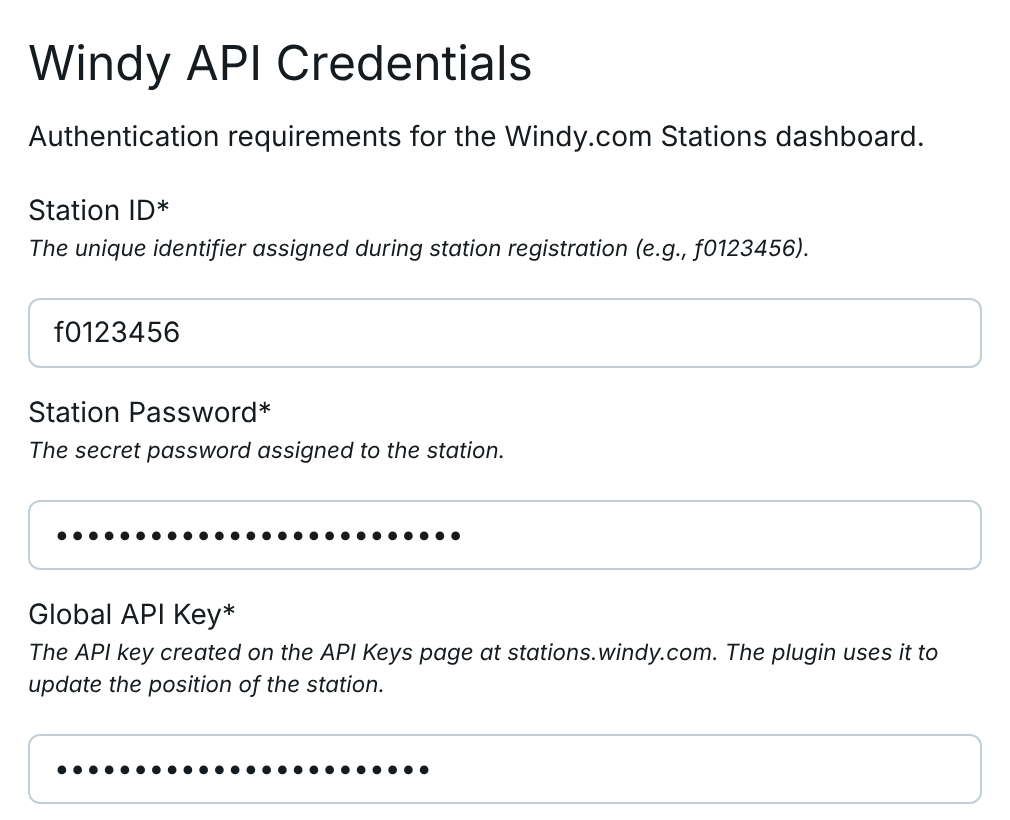
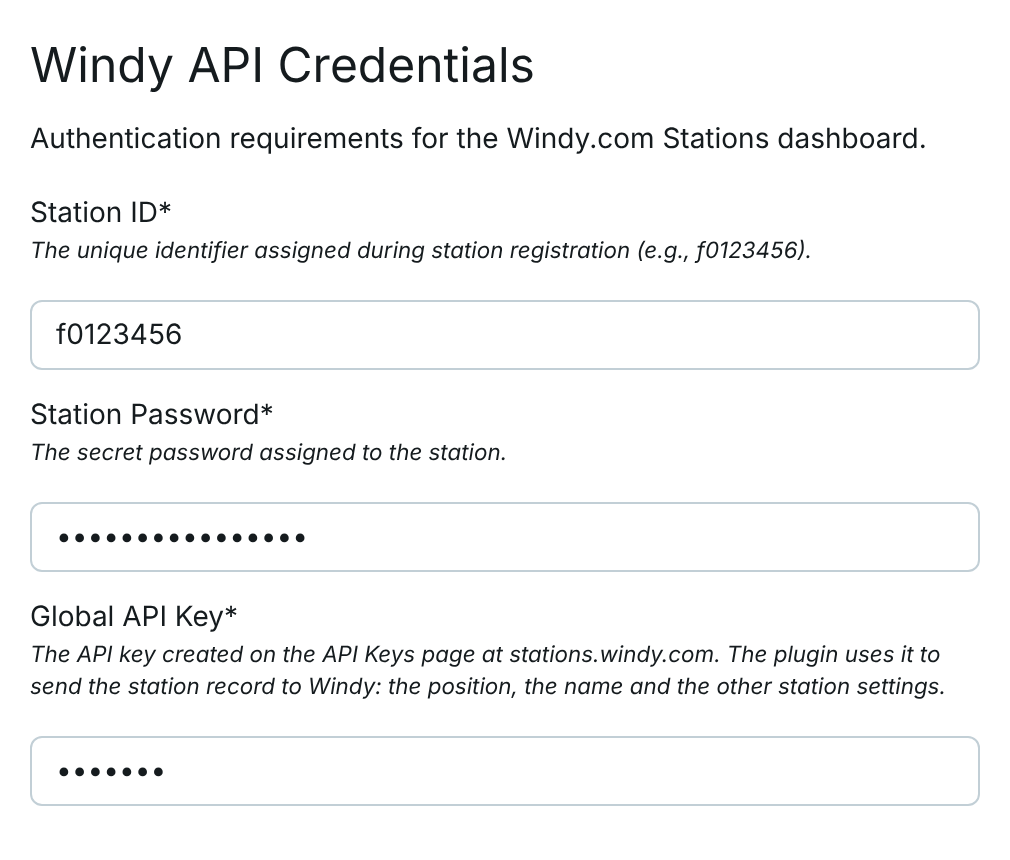
release: v1.10.3 - Wind Gust path unused with WMO, help texts

diff --git a/lib/schema.js b/lib/schema.js
@@ -3,11 +3,11 @@
  *
  * The form is described twice on purpose. `schema` and `uiSchema` tell the
  * Signal K admin UI what to draw; `formSchema()` adds to `schema` what the
- * running plugin receives, each time the configuration page is opened. `resolveOptions()` turns whatever was saved
- * into the values the plugin works with, and applies the same defaults again
- * in code: a configuration written by hand, by an older version, or by a
- * test harness can lack any field, and the form's defaults exist only in the
- * browser.
+ * running plugin receives, each time the configuration page is opened.
+ * `resolveOptions()` turns whatever was saved into the values the plugin
+ * works with, and applies the same defaults again in code: a configuration
+ * written by hand, by an older version, or by a test harness can lack any
+ * field, and the form's defaults exist only in the browser.
  *
  * SPDX-License-Identifier: GPL-3.0-or-later
  */
@@ -89,7 +89,7 @@ const schema = {
         apiKey: {
           type: 'string',
           title: 'Global API Key',
-          description: 'The API key created on the API Keys page at stations.windy.com. The plugin uses it to update the position of the station.'
+          description: 'The API key created on the API Keys page at stations.windy.com. The plugin uses it to send the station record to Windy: the position, the name and the other station settings.'
         }
       }
     },
@@ -163,7 +163,7 @@ const schema = {
           default: DEFAULTS.interval,
           minimum: MIN_INTERVAL_MINUTES,
           maximum: MAX_INTERVAL_MINUTES,
-          description: 'A whole number of minutes, from 5 to 1440. Windy enforces a rate limit of one observation per 5 minutes per station. The wind speed and direction sent are averaged over this interval, and the gust is its highest wind speed (see Gust Calculation).'
+          description: 'A whole number of minutes, from 5 to 1440. Windy enforces a rate limit of one observation per 5 minutes per station. The wind speed and direction sent are averaged over this interval, and the gust is found in it as Gust Calculation sets.'
         },
         gustMethod: {
           type: 'string',
@@ -171,7 +171,7 @@ const schema = {
           default: 'peak',
           enum: [...GUST_METHODS],
           enumNames: ['Highest value in the interval', 'WMO: highest 3-second mean in the interval'],
-          description: 'Highest value: the highest value of the Wind Gust path or of the wind speed in the reporting interval. WMO: the highest mean of the wind speed over any 3 seconds of the interval, as the World Meteorological Organization defines the gust; the Wind Gust path is not used and the wind speed is subscribed up to four times a second (a sensor that updates less often still gives fewer values). With a Reporting Interval of 10 minutes the wind and gust follow the WMO definitions. No height correction is applied.'
+          description: 'Highest value: the highest value of the Wind Gust path or of the wind speed in the reporting interval. WMO: the highest mean of the wind speed over any 3 seconds of the interval, as the World Meteorological Organization defines the gust; the Wind Gust path is not used and the wind speed is subscribed up to four times a second (a sensor that updates less often still gives fewer values). With a Reporting Interval of 10 minutes the wind and gust follow the WMO definitions. With a shorter interval, the wind is the mean and the gust the highest 3-second mean of that shorter period. No height correction is applied.'
         },
         minMove: {
           type: 'number',
@@ -232,7 +232,11 @@ const uiSchema = {
   // descriptions only, so the note at the top of the section is plain text.
   pathMap: {
     'ui:options': { collapsible: true, collapsed: true },
-    ...Object.fromEntries(Object.keys(DEFAULTS.pathMap).map((key) => [key, { 'ui:enableMarkdownInDescription': true }]))
+    ...Object.fromEntries(Object.keys(DEFAULTS.pathMap).map((key) => [key, { 'ui:enableMarkdownInDescription': true }])),
+    windGust: {
+      'ui:enableMarkdownInDescription': true,
+      'ui:help': "Used only by Gust Calculation 'Highest value'; it should carry a gust measured by the wind instrument. A gust another plugin derives may update rarely or include apparent wind; with WMO this path is not used."
+    }
   }
 }
 
@@ -258,11 +262,13 @@ const code = (text) => `\`${String(text).replace(/[`\\]/g, "'")}\``
  *                paths each Sensor Path Overrides field stands for, the one
  *                configured first
  *   receiving    (path) => the sources the path received values from
+ *   gustUnused   true when the Wind Gust path is not read (the WMO gust)
  *
  * Each Sensor Path Overrides field says which sources its path came from; a
  * fallback path, such as the older humidity path, is named when the field
- * takes its values from it. A note at the top of the section says where to
- * set a source priority. The plugin does not judge the sources.
+ * takes its values from it. While the WMO gust is set, the Wind Gust field
+ * says instead that it is not used. A note at the top of the section says
+ * where to set a source priority. The plugin does not judge the sources.
  */
 function formSchema (info) {
   if (!info) return schema
@@ -273,6 +279,10 @@ function formSchema (info) {
   for (const [key, fieldPaths] of Object.entries(info.fieldPaths)) {
     const field = form.properties.pathMap.properties[key]
     if (!field) continue
+    if (key === 'windGust' && info.gustUnused) {
+      field.description = 'Not used with Gust Calculation set to WMO.'
+      continue
+    }
     // The first path that received anything is the one the plugin uses.
     const used = fieldPaths.find((skPath) => info.receiving(skPath).length > 0)
     if (used === undefined) {

diff --git a/index.js b/index.js
@@ -1,6 +1,6 @@
 /*
  * Signal K Windy API v2 Reporter
- * v1.10.2 - source names in code style, XX explained
+ * v1.10.3 - Wind Gust path unused with WMO, help texts
  * Reports data to Windy using separate observation (GET) and metadata (PUT) endpoints.
  * Includes Movement Guard and Independent State Persistence.
  *
@@ -164,7 +164,8 @@ module.exports = function (app) {
     return {
       span: now - s.startedAt < windowMs ? 'since the plugin started' : `in the last ${spanText(windowMs)}`,
       fieldPaths,
-      receiving: (skPath) => s.sources.list(skPath, now, windowMs)
+      receiving: (skPath) => s.sources.list(skPath, now, windowMs),
+      gustUnused: s.options.gustMethod === 'wmo'
     }
   }
 
@@ -377,10 +378,11 @@ module.exports = function (app) {
     for (const problem of options.pathProblems) app.error(problem)
 
     // One subscription for everything the plugin reports: the position, the
-    // seven sensor paths, the altitude and the GNSS time. Every value that
-    // arrives is noted in `s.readings` with the time it came, which is what
-    // lets a reading that has stopped arriving be recognised as stale. The
-    // values of the three wind paths are also kept in `s.samples`, for the
+    // sensor paths (with the WMO gust, all but the Wind Gust path), the
+    // altitude and the GNSS time. Every value that arrives is noted in
+    // `s.readings` with the time it came, which is what lets a reading that
+    // has stopped arriving be recognised as stale. The values of the wind
+    // paths are also kept in `s.samples`, for the
     // mean, the gust and the direction of the reporting interval. Reports
     // are built from these alone, so the wind speed and the gust always come
     // from the same samples.
@@ -393,10 +395,13 @@ module.exports = function (app) {
     // The server appends a function to `s.unsubscribes` for each path;
     // stop() calls them. Without that, every restart of the plugin left its
     // subscriptions running for the life of the server process.
+    // With the WMO gust the Wind Gust path is not read (lib/convert.js), so
+    // it is not subscribed either.
+    const gustPaths = options.gustMethod === 'wmo' ? [] : [options.pathMap.windGust]
     const paths = [...new Set([
       POSITION_PATH,
       options.pathMap.windSpeed,
-      options.pathMap.windGust,
+      ...gustPaths,
       options.pathMap.windDir,
       options.pathMap.temp,
       options.pathMap.pressure,
@@ -407,10 +412,13 @@ module.exports = function (app) {
     ])]
 
     // The paths whose sources the configuration form lists (lib/sources.js):
-    // those of the Sensor Path Overrides fields, the older humidity path
-    // among them.
+    // those of the Sensor Path Overrides fields the plugin reads, the older
+    // humidity path among them.
     const watched = new Set([
-      ...Object.entries(options.pathMap).flatMap(([key, skPath]) => (key === 'humidity' ? humidityPaths(skPath) : [skPath]))
+      ...Object.entries(options.pathMap).flatMap(([key, skPath]) => {
+        if (key === 'windGust') return gustPaths
+        return key === 'humidity' ? humidityPaths(skPath) : [skPath]
+      })
     ])
 
     // Which samples of the wind paths are kept. A value outside Windy's

diff --git a/test/wmo-gust.test.js b/test/wmo-gust.test.js
@@ -135,11 +135,40 @@ describe('the WMO gust', () => {
     }
     env.plugin.stop()
   })
+
+  it('does not subscribe to the Wind Gust path, and the form says that it is not used', async () => {
+    const env = createEnv({ tree: fullTree() })
+    env.plugin.start(config(wmo()))
+    assert.ok(!env.subscriptions[0].paths.includes(GUST))
+    await advance(60000)
+    env.emit(GUST, 15.0, 'other')
+    const field = env.plugin.schema().properties.pathMap.properties.windGust
+    assert.equal(field.description, 'Not used with Gust Calculation set to WMO.')
+    env.plugin.stop()
+  })
+
+  it('still reads a Wind Gust path that is also the wind speed path, as the wind speed', async () => {
+    const env = createEnv({ tree: fullTree(), live: false })
+    env.plugin.start(config({ ...wmo(), pathMap: { windGust: SPEED } }))
+    assert.ok(env.subscriptions[0].paths.includes(SPEED))
+    env.emit(SPEED, 6.0)
+    await advance(FIVE_MINUTES_MS)
+    assert.equal(lastParams(env).wind, '6.0')
+    assert.equal(lastParams(env).gust, '6.0')
+    env.plugin.stop()
+  })
 })
 
 describe('the default gust', () => {
   beforeEach(setUp)
   afterEach(tearDown)
+
+  it('subscribes to the Wind Gust path', () => {
+    const env = createEnv()
+    env.plugin.start(config())
+    assert.ok(env.subscriptions[0].paths.includes(GUST))
+    env.plugin.stop()
+  })
 
   it('is still the highest value, a single spike included', async () => {
     const env = await startedEnv()

diff --git a/test/sources.test.js b/test/sources.test.js
@@ -209,10 +209,23 @@ describe('the store of sources', () => {
   })
 })
 
+describe('the help under the Wind Gust field', () => {
+  it('says which gust uses the path and what it should carry', () => {
+    assert.equal(uiSchema.pathMap.windGust['ui:help'],
+      "Used only by Gust Calculation 'Highest value'; it should carry a gust measured by the wind instrument. A gust another plugin derives may update rarely or include apparent wind; with WMO this path is not used.")
+    for (const key of Object.keys(DEFAULTS.pathMap).filter((key) => key !== 'windGust')) {
+      assert.equal(uiSchema.pathMap[key]['ui:help'], undefined, key)
+    }
+  })
+})
+
 describe('code style for source names', () => {
   it('is switched on for the line under each Sensor Path Overrides field, and not for the section, whose note is plain text', () => {
     for (const key of Object.keys(DEFAULTS.pathMap)) {
-      assert.deepEqual(uiSchema.pathMap[key], { 'ui:enableMarkdownInDescription': true }, key)
+      const expected = key === 'windGust'
+        ? { 'ui:enableMarkdownInDescription': true, 'ui:help': uiSchema.pathMap.windGust['ui:help'] }
+        : { 'ui:enableMarkdownInDescription': true }
+      assert.deepEqual(uiSchema.pathMap[key], expected, key)
     }
     assert.equal(uiSchema.pathMap['ui:enableMarkdownInDescription'], undefined)
     assert.equal(uiSchema['ui:enableMarkdownInDescription'], undefined)

diff --git a/test/schema.test.js b/test/schema.test.js
@@ -98,7 +98,17 @@ describe('configuration schema', () => {
   it('says that the wind is taken over the reporting interval, and names its limits', () => {
     const description = sections.logic.properties.interval.description
     assert.match(description, /from 5 to 1440/)
-    assert.match(description, /wind speed and direction sent are averaged over this interval, and the gust is its highest wind speed/)
+    assert.match(description, /wind speed and direction sent are averaged over this interval, and the gust is found in it as Gust Calculation sets\./)
+  })
+
+  it('says what a Reporting Interval shorter than 10 minutes gives with the WMO gust', () => {
+    assert.match(sections.logic.properties.gustMethod.description,
+      /With a shorter interval, the wind is the mean and the gust the highest 3-second mean of that shorter period\./)
+  })
+
+  it('says that the Global API Key sends the whole station record', () => {
+    assert.equal(sections.credentials.properties.apiKey.description,
+      'The API key created on the API Keys page at stations.windy.com. The plugin uses it to send the station record to Windy: the position, the name and the other station settings.')
   })
 
   it('offers three position precisions, with the exact position as the default', () => {

diff --git a/lib/sources.js b/lib/sources.js
@@ -1,8 +1,8 @@
 /*
- * Sources: which Signal K sources each subscribed path has received values
- * from recently, for the configuration form. The plugin does not judge
- * them: which source a path should come from is set in Signal K with a
- * source priority.
+ * Sources: which Signal K sources the paths the Sensor Path Overrides fields
+ * read have received values from recently, for the configuration form. The
+ * plugin does not judge them: which source a path should come from is set in
+ * Signal K with a source priority.
  *
  * SPDX-License-Identifier: GPL-3.0-or-later
  */

diff --git a/README.md b/README.md
@@ -16,7 +16,7 @@ This is the only Signal K plugin targeting the Windy v2 API. Users of the legacy
 - **Stale Reading Protection**: (v1.6.0+) A sensor reading that has not been updated for 15 minutes is left out of the report, so a sensor that has stopped is not reported as current weather. The limit is a setting and can be switched off.
 - **Live Heartbeat Status**: Enhanced dashboard feedback showing countdown to next report, distance from baseline, current sensor readings, and last submission time. See [Dashboard Status](#dashboard-status).
 - **Radius-Based Movement Guard**: Intelligent GNSS position reporting that triggers map updates only when the vessel moves beyond a set radius from its last position, preventing "phantom movement" while at anchor.
-- **Wind Over the Reporting Interval**: (v1.8.0+) The wind speed sent is the mean of the reporting interval, the gust the highest value in it and the direction the mean direction, as weather stations report wind. Earlier versions sent the wind speed and direction of the moment of the report. See [Wind Over the Reporting Interval](#wind-over-the-reporting-interval).
+- **Wind Over the Reporting Interval**: (v1.8.0+) The wind speed sent is the mean of the reporting interval, the gust the highest value in it or, (v1.9.0+) with **Gust Calculation** set to **WMO**, its highest 3-second mean, and the direction the mean direction, as weather stations report wind. Earlier versions sent the wind speed and direction of the moment of the report. See [Wind Over the Reporting Interval](#wind-over-the-reporting-interval).
 - **Clock Check**: (v1.8.0+) The system clock is compared with GNSS time from `navigation.datetime`, and the dashboard shows an error while the two differ by more than 60 seconds. See [Clock Check](#clock-check).
 - **Sources on the Form**: (v1.10.0+) The configuration form shows which Signal K sources each sensor path is received from. See [Several Sources on One Path](#several-sources-on-one-path).
 - **Position Precision**: (v1.8.0+) The position on the Windy map can be rounded to about 100 m or about 1 km. See [Station Record](#station-record).
@@ -40,7 +40,7 @@ Each reporting cycle sends one observation built from the Signal K paths below. 
 | Humidity | `environment.outside.humidity` | `rh` | Ratio to percent |
 | Dew point | `environment.outside.dewPointTemperature` | `dewpoint` | (v1.8.0+) Kelvin to °C. Not shown on the dashboard, also when it is left out |
 
-`environment.outside.humidity` is the humidity path of the Signal K specification and the one Signal K's own NMEA 0183 and NMEA 2000 converters publish. Versions before 1.5.2 read `environment.outside.relativeHumidity`. When the configured path is one of these two and holds no value, the other is read, so an existing configuration needs no change. `environment.wind.gust` is not a path in the Signal K specification; where no source publishes it, the gust is the highest wind speed of the reporting interval.
+`environment.outside.humidity` is the humidity path of the Signal K specification and the one Signal K's own NMEA 0183 and NMEA 2000 converters publish. Versions before 1.5.2 read `environment.outside.relativeHumidity`. When the configured path is one of these two and holds no value, the other is read, so an existing configuration needs no change. `environment.wind.gust` is not a path in the Signal K specification; where no source publishes it, the gust "Highest value" is the highest wind speed of the reporting interval. The WMO gust does not use the path.
 
 Windy expects the wind over ground: speed and direction relative to the ground, the direction in degrees from true north. `environment.wind.speedOverGround` and `environment.wind.directionTrue` are published by the `signalk-derived-data` plugin and by Signal K's NMEA 2000 converter for wind data referenced to true north. (v1.8.0+) These wind paths, which cannot give it, are named on the dashboard as an error: apparent wind speed (`environment.wind.speedApparent`), which includes the vessel's own speed, and the magnetic direction (`environment.wind.directionMagnetic`) are still sent; an angle from the bow (`environment.wind.angleApparent`, `environment.wind.angleTrueWater` or `environment.wind.angleTrueGround`) is not a compass direction, and no direction is sent.
 
@@ -172,7 +172,7 @@ Without a source priority, the Signal K server passes the plugin the values of e
 
 With a source priority, set under **Data > Priorities** in the Signal K admin UI, the server passes the preferred source. When the preferred source is silent for longer than the fallback time of the next source, the server passes the next one.
 
-While the plugin runs, the configuration form lists, under each field of **Sensor Path Overrides (Advanced)**, the sources the path was received from within the **Maximum Reading Age**, or within 15 minutes when the age check is off. While the plugin has run for less than that, the list covers the time since it started. A source that took over during a pause of the preferred one is listed too. A source name ending in `.XX`, such as `signalk-energy-predictor.XX`, is one whose source gives no talker ID; Signal K puts `XX` in its place. When a path lists more than one source and its readings should come from only one, set a source priority for that path. The form is read when the configuration page is opened, so reopening the page shows the current state.
+While the plugin runs, the configuration form lists, under each field of **Sensor Path Overrides (Advanced)**, the sources the path was received from (v1.10.3+: with the WMO gust, the **Wind Gust** field says instead that it is not used) within the **Maximum Reading Age**, or within 15 minutes when the age check is off. While the plugin has run for less than that, the list covers the time since it started. A source that took over during a pause of the preferred one is listed too. A source name ending in `.XX`, such as `signalk-energy-predictor.XX`, is one whose source gives no talker ID; Signal K puts `XX` in its place. When a path lists more than one source and its readings should come from only one, set a source priority for that path. The form is read when the configuration page is opened, so reopening the page shows the current state.
 
 ### Real-Time Log Monitoring
 To stream logs specifically for this plugin on an installation created with `signalk-server-setup`:

diff --git a/CONTRIBUTING.md b/CONTRIBUTING.md
@@ -26,7 +26,7 @@ The plugin is plain JavaScript with no build step and one runtime dependency, `a
 | `index.js` | The plugin's lifecycle and schedule: start, stop, subscriptions, the countdown, and the order of the two requests in a reporting cycle. |
 | `lib/schema.js` | The configuration form, with the sources of the paths while the plugin runs, and the reading of a saved configuration with its defaults. |
 | `lib/readings.js` | The latest value of every subscribed path and the time it arrived. |
-| `lib/sources.js` | Which Signal K sources each subscribed path has received values from recently. |
+| `lib/sources.js` | Which Signal K sources the paths the Sensor Path Overrides fields read have received values from recently. |
 | `lib/samples.js` | The values of the wind paths over the reporting interval: the mean, the highest value, the highest 3-second mean and the mean direction. |
 | `lib/convert.js` | Readings to observation fields: age check, unit conversion, the gust rule, range checks. |
 | `lib/movement.js` | Distance from the last position sent to Windy. |
@@ -76,7 +76,7 @@ The tests drive the plugin the way the Signal K server does: through the `app` o
 | `test/dashboard.test.js` | How long an error stays on the dashboard and what becomes its Last Error, Windy out of reach, the time and the countdown |
 | `test/station-record.test.js` | The station record sent again after a change of the settings it is built from |
 | `test/wind.test.js` | The wind over the reporting interval: the mean, the gust and the mean direction; a clock set back; wind paths that cannot give the wind Windy expects |
-| `test/wmo-gust.test.js` | The WMO gust: the highest 3-second mean, the Gust Calculation setting, the sampling rate it subscribes at |
+| `test/wmo-gust.test.js` | The WMO gust: the highest 3-second mean, the Gust Calculation setting, the sampling rate it subscribes at, the Wind Gust path left unsubscribed and marked unused on the form |
 | `test/clock.test.js` | The system clock compared with GNSS time |
 | `test/sources.test.js` | The sources of each path on the configuration form and the note above them; no warning for several sources; the form when it cannot be built |
 | `test/state.test.js` | The state file and restarts |
@@ -105,7 +105,7 @@ This runs `integration/server-check.js` against a running Signal K server that h
 
 - One logical change per PR.
 - Include a clear description of what the change does and why.
-- Add an entry to `CHANGELOG.md` under the version being prepared. The file must not contain an `[Unreleased]` section when a version is tagged: the publish workflow copies the section for the tagged version into the GitHub Release, and the Signal K App Store shows that text.
+- Describe the change in the pull request; the maintainer writes the `CHANGELOG.md` entry with the release, under the version it ships in. The file never holds an `[Unreleased]` section: the publish workflow copies the section for the tagged version into the GitHub Release, and the Signal K App Store shows that text.
 - Run `npm test` and `npm run lint`, and test against a running Signal K server before submitting. If live Windy API testing is not possible, note that in the PR description.
 
 ## Releases

diff --git a/CHANGELOG.md b/CHANGELOG.md
@@ -5,6 +5,20 @@ All notable changes to the Signal K Windy API v2 Reporter will be documented in 
 The format is based on [Keep a Changelog](https://keepachangelog.com/en/1.0.0/),
 and this project adheres to [Semantic Versioning](https://semver.org/spec/v2.0.0.html).
 
+## [1.10.3] - 2026-11-08
+
+### Changed
+- **Wind Gust Path with the WMO Gust**: With **Gust Calculation** set to **WMO**, the plugin no longer subscribes to the **Wind Gust** path, which that gust does not read, and the line under the field on the configuration form says that it is not used, in place of listing the path's sources. A Wind Gust path that is also the Wind Speed path is still read as the wind speed.
+- **Wind Gust Help**: The **Wind Gust** field says that only the gust "Highest value" uses it, that it should carry a gust measured by the wind instrument, and that a gust another plugin derives may update rarely or include apparent wind.
+- **Gust Calculation Help**: The help says what an interval shorter than 10 minutes gives: the wind is the mean and the gust the highest 3-second mean of that shorter period.
+- **Pull Requests**: `CONTRIBUTING.md` asks contributors to describe a change in the pull request; the maintainer writes the `CHANGELOG.md` entry with the release. It asked for an entry under the version being prepared, which a contributor cannot know, while the changelog test rejects an `[Unreleased]` section.
+- **Screenshots**: The **Windy API Credentials**, **Transmission & Movement Guard** and **Sensor Path Overrides** screenshots were retaken.
+
+### Fixed
+- **Reporting Interval Help**: The help said that the gust is the highest wind speed of the interval, which is true only of the gust "Highest value" without a gust path. It now refers to Gust Calculation.
+- **Global API Key Help**: The help said that the key is used to update the position of the station. Each update sends the whole station record, and the help now says so.
+- **WMO Gust in the Documents**: The README Features list, the Mapped Data notes and the Migration Guide described only the gust "Highest value"; they name the WMO gust (v1.9.0+) as well. `CONTRIBUTING.md` and a comment described the source list as covering every subscribed path, while it covers the paths the Sensor Path Overrides fields read.
+
 ## [1.10.2] - 2026-11-07
 
 ### Changed
@@ -408,6 +422,7 @@ and this project adheres to [Semantic Versioning](https://semver.org/spec/v2.0.0
 - **API Proof of Concept**: Validated basic GET requests to Windy's `/pws/update/` endpoint using standard station credentials.
 - **Dynamic Location Foundation**: Developed the initial code for handling "moving" stations (Boats/Vessels) within the Windy ecosystem.
 
+[1.10.3]: https://github.com/Peter-Petrik/signalk-windy-apiv2/compare/v1.10.2...v1.10.3
 [1.10.2]: https://github.com/Peter-Petrik/signalk-windy-apiv2/compare/v1.10.1...v1.10.2
 [1.10.1]: https://github.com/Peter-Petrik/signalk-windy-apiv2/compare/v1.10.0...v1.10.1
 [1.10.0]: https://github.com/Peter-Petrik/signalk-windy-apiv2/compare/v1.9.0...v1.10.0

diff --git a/MIGRATION.md b/MIGRATION.md
@@ -40,7 +40,7 @@ To find the new credentials, log in to [stations.windy.com](https://stations.win
 
 ### Wind
 
-The legacy plugin sends the highest wind speed since its last successful report as the gust; this plugin (v1.8.0+) the highest value of the gust path or of the wind speed in the reporting interval. The legacy plugin sends the median of the wind speed samples since its last successful report as the wind speed, and the latest direction. This plugin (v1.8.0+) sends the mean of the reporting interval, each value weighted by how long it stood, and the mean direction of the interval, weighted by the wind speed (see [Wind Over the Reporting Interval](README.md#wind-over-the-reporting-interval)). The median and the mean of the same wind are close but not equal, so the wind speed on Windy can differ slightly after the switch.
+The legacy plugin sends the highest wind speed since its last successful report as the gust; this plugin (v1.8.0+) the highest value of the gust path or of the wind speed in the reporting interval, or (v1.9.0+) with **Gust Calculation** set to **WMO** the highest 3-second mean of the wind speed. The legacy plugin sends the median of the wind speed samples since its last successful report as the wind speed, and the latest direction. This plugin (v1.8.0+) sends the mean of the reporting interval, each value weighted by how long it stood, and the mean direction of the interval, weighted by the wind speed (see [Wind Over the Reporting Interval](README.md#wind-over-the-reporting-interval)). The median and the mean of the same wind are close but not equal, so the wind speed on Windy can differ slightly after the switch.
 
 ### Features Not in the Legacy Plugin
 
